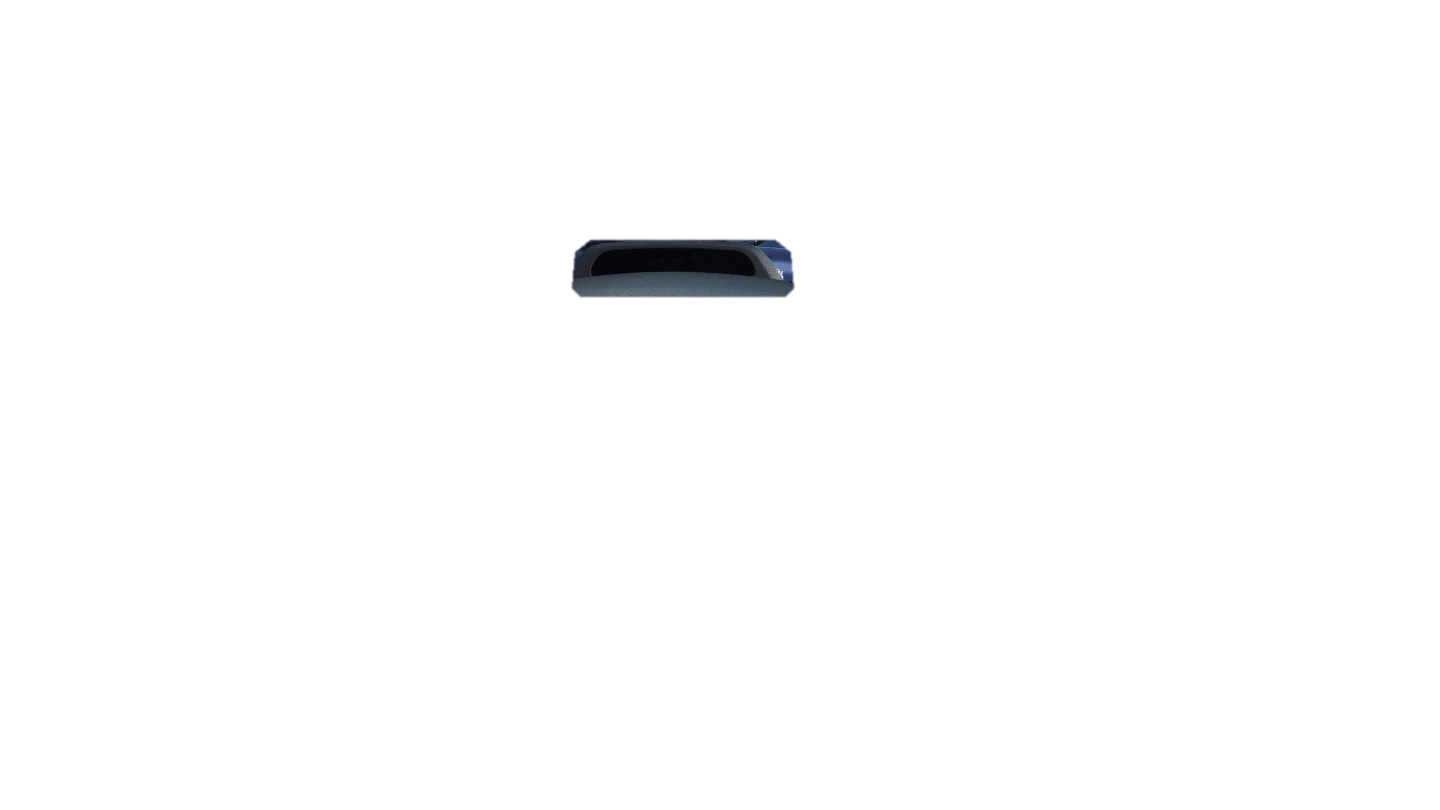
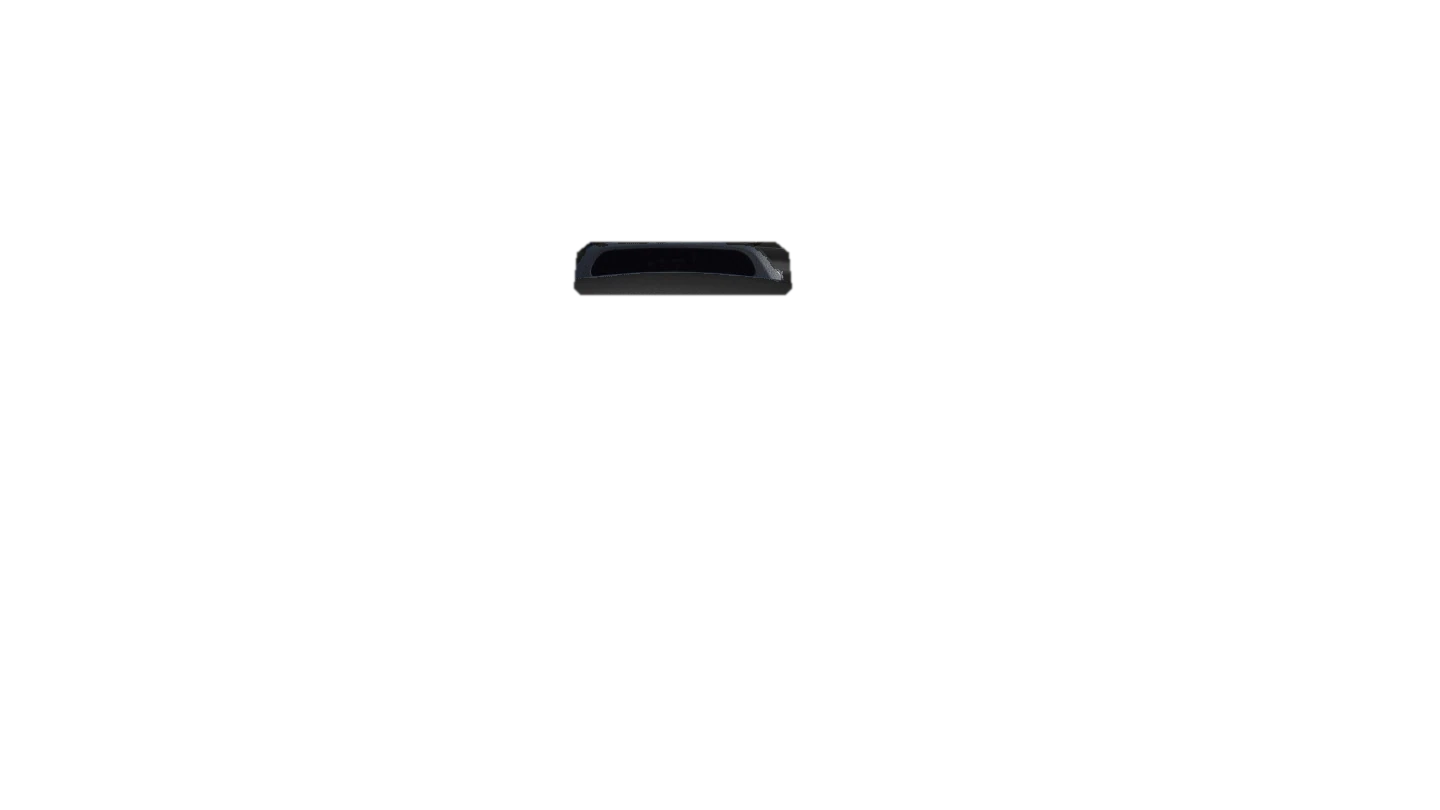
Natural windshield frame, translucent moving wheel when zoomed, cleaner cluster edge
The view above the photo is now a full windshield frame: headliner, A-pillars,
rear-view mirror and a curved dash top with the cluster hood, blending into
the photo. The exterior no longer sits behind the seam. Zoomed in, the wheel
stays as a faint ghost that keeps moving. The map fades out before the column
cover, the display has a soft rounded edge, the blue fringe around the cover
is removed and the area below the cluster is shaded.

Claude-Session: https://claude.ai/code/session_012dHuLUxVx7ZRYT7UA9Zb8h

Changed region(s): [[0.375, 0.2778, 0.5625, 0.3704]]

diff --git a/js/cluster.js b/js/cluster.js
@@ -223,8 +223,8 @@
       gr = mc.createLinearGradient(0, 0, 0, mh);
       gr.addColorStop(0, 'rgba(0,0,0,0)');
       gr.addColorStop(0.38, 'rgba(0,0,0,0.95)');
-      gr.addColorStop(0.9, 'rgba(0,0,0,1)');
-      gr.addColorStop(1, 'rgba(0,0,0,0)');
+      gr.addColorStop(0.74, 'rgba(0,0,0,1)');
+      gr.addColorStop(0.9, 'rgba(0,0,0,0)');
       mc.fillStyle = gr;
       mc.fillRect(0, 0, mw, mh);
       mc.globalCompositeOperation = 'source-over';
@@ -544,6 +544,10 @@
       if (st.backlight <= 0.002) return;
 
       ctx.setTransform(s, 0, 0, s, -X0 * s, -Y0 * s);
+      ctx.save();
+      ctx.beginPath();
+      ctx.roundRect(X0 + 1, Y0 + 1, CW - 2, CH - 2, 14);
+      ctx.clip();
       ctx.globalAlpha = st.backlight;
       const k = st.bootT;                      // seconds since the display woke up
       const mapA = smooth(0.35, 1.2, k);
@@ -593,12 +597,31 @@
       ctx.globalAlpha = st.backlight;
       this.popup(ctx, st, t);
 
+      // panel edge: the backlight falls off toward the bezel
+      ctx.globalAlpha = 1;
+      const edgeG = (x0, y0, x1, y1) => {
+        const g = ctx.createLinearGradient(x0, y0, x1, y1);
+        g.addColorStop(0, 'rgba(0,0,0,0.75)');
+        g.addColorStop(1, 'rgba(0,0,0,0)');
+        return g;
+      };
+      ctx.fillStyle = edgeG(0, Y0 + CH, 0, Y0 + CH - 26);
+      ctx.fillRect(X0, Y0 + CH - 26, CW, 26);
+      ctx.fillStyle = edgeG(0, Y0, 0, Y0 + 12);
+      ctx.fillRect(X0, Y0, CW, 12);
+      ctx.fillStyle = edgeG(X0, 0, X0 + 14, 0);
+      ctx.fillRect(X0, Y0, 14, CH);
+      ctx.fillStyle = edgeG(X0 + CW, 0, X0 + CW - 14, 0);
+      ctx.fillRect(X0 + CW - 14, Y0, 14, CH);
+      ctx.globalAlpha = st.backlight;
+
       // glass sheen
       const sheen = ctx.createLinearGradient(X0, Y0, X0 + 420, Y0 + 260);
       sheen.addColorStop(0, 'rgba(255,255,255,0.05)');
       sheen.addColorStop(1, 'rgba(255,255,255,0)');
       ctx.fillStyle = sheen;
       ctx.fillRect(X0, Y0, CW, CH);
+      ctx.restore();
     }
   }
 

diff --git a/js/sim.js b/js/sim.js
@@ -3,8 +3,8 @@
   'use strict';
 
   const IMG_W = 1440, IMG_H = 810;
-  const EXT_TOP = -170;                 // invented windshield strip above the photo
-  const FULL_TOP = -125;                // the full view shows a little of the road outside
+  const EXT_TOP = -330;                 // invented windshield view above the photo
+  const FULL_TOP = -135;                // the full view shows a little of the road outside
   const WHEEL_PIVOT = [676, 410];
   const CLUSTER_VIEW = { cx: 663, cy: 168, w: 600, h: 470 };
   // 10-speed automatic: engine rpm per km/h in each gear
@@ -124,9 +124,10 @@
     if ((IMG_H - EXT_TOP) * s >= vh) ty = clamp(ty, vh - IMG_H * s, -EXT_TOP * s);
     stage.style.transform = `translate3d(${(tx + shakeX).toFixed(2)}px, ${(ty + shakeY).toFixed(2)}px, 0) scale(${s.toFixed(5)})`;
 
-    const wheelA = 1 - smooth(0.1, 0.72, z);
+    // zoomed in, the wheel fades to a faint translucent ghost that keeps moving
+    const wheelA = 1 - 0.8 * smooth(0.1, 0.72, z);
     wheelRig.style.opacity = wheelA.toFixed(3);
-    wheelRig.style.visibility = z > 0.75 ? 'hidden' : 'visible';
+    wheelRig.classList.toggle('ghost', z > 0.5);
     focusShade.style.opacity = smooth(0.25, 1, z).toFixed(3);
 
     const dpr = window.devicePixelRatio || 1;
@@ -351,7 +352,7 @@
     // plus the driver's small, constant corrections
     const vf = clamp(st.speed / 60, 0, 1);
     const roadAngle = Math.atan(2.85 * Road.curvature(st.odoMeters)) * 16 / DEG;
-    const corr = 0.3 * Math.sin(t * 0.55) + 0.15 * Math.sin(t * 1.37 + 0.7) + 0.06 * Math.sin(t * 3.1 + 2)
+    const corr = 0.55 * Math.sin(t * 0.55) + 0.25 * Math.sin(t * 1.37 + 0.7) + 0.08 * Math.sin(t * 3.1 + 2)
       + vf * (0.55 * Math.sin(t * 0.29 + 1.1) + 0.3 * Math.sin(t * 0.71) + 0.15 * Math.sin(t * 2.3 + 0.4));
     st.wheelRoad = follow(st.wheelRoad || 0, roadAngle, 0.35, dt);
     st.wheel = st.wheelRoad + corr;

diff --git a/js/exterior.js b/js/exterior.js
@@ -4,11 +4,11 @@
 (function () {
   'use strict';
 
-  const TOP = -170, HEIGHT = 185, WIDTH = 1440;
-  const Q = 0.42;
-  const F = 420;            // focal length, stage px
+  const TOP = -330, HEIGHT = 300, WIDTH = 1440;   // ends under the dash top, never behind the seam
+  const Q = 0.36;
+  const F = 600;            // focal length, stage px
   const CAM_H = 1.3;        // eye height, m
-  const HORIZON = -101;
+  const HORIZON = -112;
   const VP_X = 690;
   const ROAD_HALF = 3.9;
 
@@ -29,7 +29,7 @@
       this.cars = [];
       this.nextCar = 3;
       this.flakes = [];
-      for (let i = 0; i < 160; i++) this.flakes.push(this.flake(true));
+      for (let i = 0; i < 220; i++) this.flakes.push(this.flake(true));
     }
 
     static get box() { return { top: TOP, height: HEIGHT, width: WIDTH }; }
@@ -110,7 +110,7 @@
         ctx.closePath();
       };
       const strips = [];
-      for (let z = 7; z < 700; z += Math.max(1.2, z * 0.07)) strips.push(z);
+      for (let z = 9; z < 700; z += Math.max(1.2, z * 0.07)) strips.push(z);
       for (let i = strips.length - 2; i >= 0; i--) {
         const za = strips[i], zb = strips[i + 1];
         const ca = cz(za), cb = cz(zb);
@@ -152,7 +152,7 @@
       for (let n = Math.floor(s / 6); n < Math.floor((s + 420) / 6); n++) {
         const S = n * 6 + hash(n, 1) * 4;
         const z = S - s;
-        if (z < 8) continue;
+        if (z < 9) continue;
         if (hash(n, 2) < 0.75) objs.push({ k: 'tree', z, u: (hash(n, 3) < 0.5 ? -1 : 1) * (7 + hash(n, 4) * 32), n });
       }
       for (let n = Math.floor(s / 25); n < Math.floor((s + 300) / 25); n++) {

diff --git a/css/style.css b/css/style.css
@@ -51,10 +51,12 @@ body.ready #stage { opacity: 1; }
 
 #stage > * { position: absolute; display: block; }
 #dash, #wheelRig, #wheel, #shroud, #ambient, #focusShade { left: 0; top: 0; width: 1440px; height: 810px; }
+#focusShade { top: -330px; height: 1140px; }
 #wheelRig > * { position: absolute; }
 #wheel { top: -170px; height: 980px; pointer-events: none; }
-#top { left: 0; top: -170px; width: 1440px; height: 170px; pointer-events: none; }
-#exterior { filter: blur(1.6px) saturate(0.9); }
+#top { left: 0; top: -330px; width: 1440px; height: 330px; pointer-events: none; }
+#exterior { filter: blur(2px) saturate(0.9); }
+#wheelRig.ghost .hot { pointer-events: none; }
 #wheelRig { will-change: transform, opacity; pointer-events: none; }
 #shroud { pointer-events: none; }
 #ambient { mix-blend-mode: soft-light; filter: blur(10px); pointer-events: none; }
@@ -63,7 +65,9 @@ body.ready #stage { opacity: 1; }
 #focusShade {
   opacity: 0;
   pointer-events: none;
-  background: radial-gradient(ellipse 360px 200px at 663px 175px, transparent 72%, rgba(0, 0, 0, 0.55) 100%);
+  background:
+    linear-gradient(to bottom, transparent 660px, rgba(0, 0, 0, 0.45) 800px, rgba(0, 0, 0, 0.7) 1140px),
+    radial-gradient(ellipse 380px 230px at 663px 505px, transparent 72%, rgba(0, 0, 0, 0.42) 100%);
 }
 
 #startGlow {

diff --git a/tools/build_gx_layers.py b/tools/build_gx_layers.py
@@ -7,7 +7,7 @@
   assets/gx_top.webp       invented strip above the photo: dash top, windshield
                            opening (transparent) and A-pillars
 
-Coordinates are interior-photo pixels; the strip above the photo spans y -170..0.
+Coordinates are interior-photo pixels; the strip above the photo spans y -330..0.
 Requires: pillow numpy scipy opencv-python-headless
 """
 import cv2
@@ -97,39 +97,76 @@ for x in range(500, 861):
         wal[TOP + y, x] = np.clip(y - apex, 0, 1) * wal[TOP + src, x]
 save_rgba('assets/gx_wheel.webp', wim, wal)
 
-# strip above the photo: dash top continues upward, then the windshield opening
-band = 46
-# the photo's first rows carry a light edge; continue from slightly lower rows,
-# smoothed sideways so no mirrored highlights appear
+# strip above the photo (y -330..0): headliner, windshield opening (transparent),
+# A-pillars, rear-view mirror and the dash top with the cluster hood
+XT = 330
 dash[0:4] = dash[4]
-src = cv2.GaussianBlur(dash[4:10].astype(np.float32).mean(axis=0, keepdims=True), (0, 0), sigmaX=8, sigmaY=0)[0]
-top = np.zeros((TOP, W, 3), np.float32)
-ta = np.zeros((TOP, W), np.float32)
-rng = np.random.default_rng(1)
-for k in range(1, band + 1):
-    shade = 1.0 - 0.7 * (k / band) ** 0.9
-    top[TOP - k] = src * shade + rng.normal(0, 1.2, (W, 1))
-    ta[TOP - k] = 1
-# windshield base: a dark lip and a faint glint along the glass edge
-lip = TOP - band
-top[lip:lip + 3] *= 0.35
-top[lip - 1] = (70, 74, 80)
-ta[lip - 1] = 0.55
-# headliner shadow at the very top
-for k in range(18):
-    top[k] = (14, 14, 16)
-    ta[k] = 1 - k / 18 * 0.75 if k < 18 else 0
-# A-pillars
-pil = np.zeros((TOP, W), np.uint8)
-cv2.fillPoly(pil, [np.array([(0, 0), (170, 0), (70, lip), (0, lip)], np.int32)], 255)
-cv2.fillPoly(pil, [np.array([(1250, 0), (1440, 0), (1440, lip), (1385, lip)], np.int32)], 255)
-pa = feather(pil > 0, 2.0)
-gy = np.linspace(0, 1, TOP)[:, None]
-pillar_col = np.dstack([18 + 12 * gy, 19 + 12 * gy, 22 + 12 * gy]) * np.ones((1, W, 1))
-top = top * (1 - pa[..., None]) + pillar_col * pa[..., None]
-ta = np.maximum(ta, pa)
-Image.fromarray(cv2.cvtColor(dash, cv2.COLOR_BGR2RGB)).save('assets/gx_dash.webp', quality=88, method=6)
-save_rgba('assets/gx_top.webp', np.clip(top, 0, 255).astype(np.uint8), ta)
-save_rgba('assets/gx_shroud.webp', im, feather(shroud, 0.9) * (yy < 330))
+src = cv2.GaussianBlur(dash[4:10].astype(np.float32).mean(axis=0, keepdims=True), (0, 0), sigmaX=10, sigmaY=0)[0]
+top = np.zeros((XT, W, 3), np.float32)
+ta = np.zeros((XT, W), np.float32)
+ys = np.arange(XT)[:, None] - XT                     # stage y of each row (-330..-1)
+xs = np.arange(W)[None, :]
+
+
+def sstep(e0, e1, v):
+    t = np.clip((v - e0) / (e1 - e0), 0, 1)
+    return t * t * (3 - 2 * t)
+
+
+def paint(mask_a, color):
+    global top, ta
+    m = np.clip(mask_a, 0, 1)[..., None]
+    top = top * (1 - m) + np.asarray(color, np.float32) * m
+    ta = np.maximum(ta, m[..., 0])
+
+
+# dash top silhouette: low at the sides, rising over the cluster hood
+hood = sstep(330, 470, xs) * (1 - sstep(900, 1040, xs))
+edge = -40 - 20 * hood - 6 * np.exp(-((xs - 1250) / 160.0) ** 2)
+below = sstep(edge - 1.2, edge + 1.2, ys)            # 1 under the edge (dash), 0 above (glass)
+depth = np.clip((ys - edge) / np.maximum(-edge, 1), 0, 1)    # 0 at the edge .. 1 at y = 0
+leather = np.array([30, 31, 35], np.float32)[None, None] * (0.75 + 0.35 * depth[..., None])
+blend = sstep(0.55, 1.0, depth)[..., None]
+dash_col = leather * (1 - blend) + src[None] * blend
+top = dash_col * below[..., None]
+ta = below.copy()
+# sky light catching the rounded edge of the dash pad
+rim = np.exp(-((ys - edge - 1.5) / 1.3) ** 2)
+paint(rim * 0.55, (118, 124, 132))
+# the dash reflected faintly in the glass just above it
+refl = np.exp(-((ys - edge + 18) / 14.0) ** 2) * (1 - below)
+paint(refl * 0.10, (150, 160, 172))
+
+# headliner and the tinted band at the top of the glass
+paint(1 - sstep(-312, -300, ys), (17, 17, 19))
+paint((1 - sstep(-300, -235, ys)) * 0.5, (10, 13, 18))
+
+# A-pillars (driver side wide and close, passenger side far and slanted)
+for poly, col in (([(0, 0), (230, 0), (70, XT - 30), (0, XT - 30)], (24, 25, 28)),
+                  ([(1215, 0), (1330, 0), (1440, 200), (1440, XT - 30), (1418, XT - 30)], (26, 27, 30))):
+    m = np.zeros((XT, W), np.uint8)
+    cv2.fillPoly(m, [np.array(poly, np.int32)], 255)
+    paint(feather(m > 0, 2.2), col)
+    edge_line = cv2.Canny(m, 50, 150) > 0
+    paint(feather(edge_line, 1.0) * 0.35, (70, 72, 78))
+
+# rear-view mirror hanging from the headliner
+m = np.zeros((XT, W), np.uint8)
+cv2.rectangle(m, (1000, 18), (1016, 44), 255, -1)                    # stem
+cv2.ellipse(m, (1005, 66), (120, 26), 0, 0, 360, 255, -1)
+paint(feather(m > 0, 1.6), (21, 22, 25))
+m2 = np.zeros((XT, W), np.uint8)
+cv2.ellipse(m2, (1005, 62), (112, 16), 0, 180, 360, 255, 2)
+paint(feather(m2 > 0, 1.2) * 0.4, (90, 94, 100))
+
+top[:-3] = cv2.GaussianBlur(top, (0, 0), 0.8)[:-3]
+save_rgba('assets/gx_top.webp', np.clip(top, 0, 255).astype(np.uint8), np.clip(ta, 0, 1))
+# the photo's display glows blue around the cover's edges: neutralise that tint
+sh = im.copy()
+b_, g_, r_ = [sh[..., i].astype(np.int16) for i in range(3)]
+tint = shroud & (b_ - r_ > 18)
+grey = cv2.cvtColor(cv2.cvtColor(sh, cv2.COLOR_BGR2GRAY), cv2.COLOR_GRAY2BGR)
+sh[tint] = (grey[tint] * 0.55).astype(np.uint8)
+save_rgba('assets/gx_shroud.webp', sh, feather(nd.binary_erosion(shroud, iterations=2), 0.9) * (yy < 330))
 
 print('ok')
